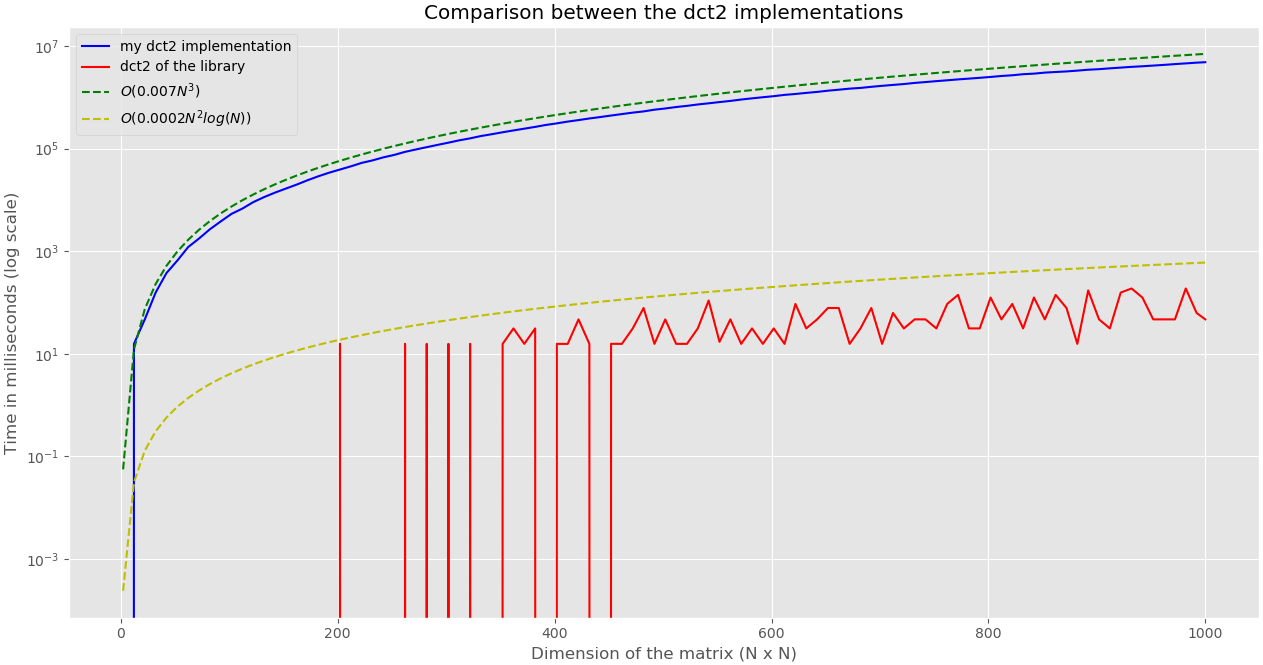
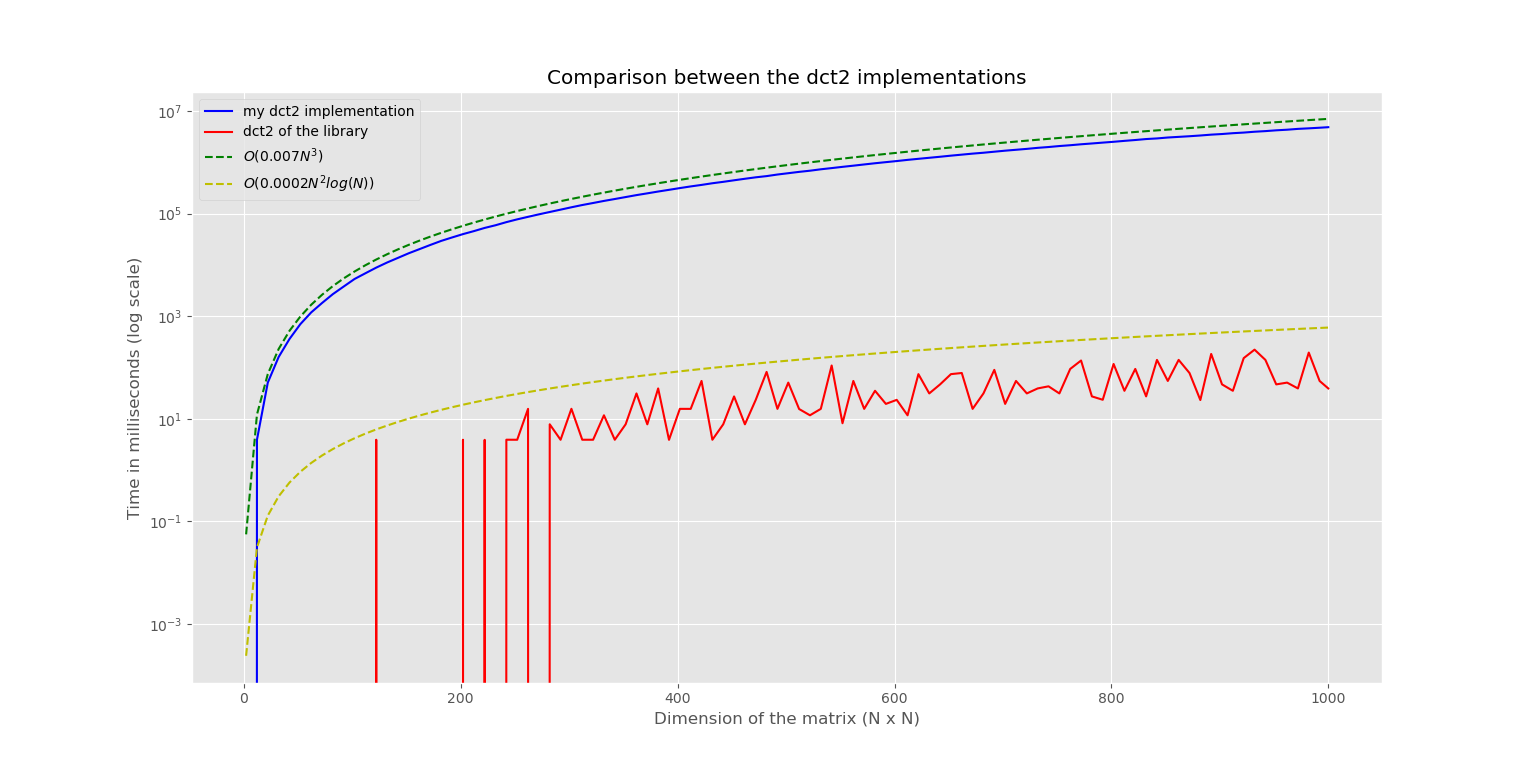
final

Changed region(s): [[0.0, 0.0, 1.0, 0.9925], [0.1853, 0.3008, 0.3088, 0.4511], [0.2162, 0.5714, 0.247, 0.6015]]

diff --git a/progetto2/src/results.py b/progetto2/src/results.py
@@ -54,18 +54,8 @@ def save_results_on_file(my_dct2_time, lib_dct2_time, dimension_matrix, step):
 
 
 # This function is used to plot the results of the comparison of the dct2 implementations
-#def plot_results(my_dct2_time, lib_dct2_time, dimension_matrix, step):
-def plot_results():
+def plot_results(my_dct2_time, lib_dct2_time, dimension_matrix):
     plt.style.use('ggplot') # To improve visualization
-    
-    # Matrix dimensions: 
-    dimension_matrix = [2, 12, 22, 32, 42, 52, 62, 72, 82, 92, 102, 112, 122, 132, 142, 152, 162, 172, 182, 192, 202, 212, 222, 232, 242, 252, 262, 272, 282, 292, 302, 312, 322, 332, 342, 352, 362, 372, 382, 392, 402, 412, 422, 432, 442, 452, 462, 472, 482, 492, 502, 512, 522, 532, 542, 552, 562, 572, 582, 592, 602, 612, 622, 632, 642, 652, 662, 672, 682, 692, 702, 712, 722, 732, 742, 752, 762, 772, 782, 792, 802, 812, 822, 832, 842, 852, 862, 872, 882, 892, 902, 912, 922, 932, 942, 952, 962, 972, 982, 992, 1000]
-
-    # Execution time of my dct2 implementation: 
-    my_dct2_time = [0.0, 0.01562666893005371, 0.046894073486328125, 0.15622639656066895, 0.3750011920928955, 0.6562530994415283, 1.2031264305114746, 1.765625238418579, 2.6718642711639404, 3.7969415187835693, 5.34368371963501, 6.765626668930054, 9.031248569488525, 11.328124046325684, 13.828142642974854, 16.578184127807617, 19.812426567077637, 24.09374761581421, 28.81252360343933, 33.859352350234985, 39.031248331069946, 44.98440432548523, 52.578096866607666, 58.75003218650818, 67.40621447563171, 75.15625286102295, 86.24999809265137, 96.01562190055847, 106.43749904632568, 117.92188501358032, 130.28124713897705, 144.71875166893005, 158.06249451637268, 175.42187094688416, 190.37499952316284, 207.6718876361847, 225.57820987701416, 244.17180824279785, 264.42187309265137, 288.6406247615814, 309.82812666893005, 335.562527179718, 358.64062237739563, 385.87499737739563, 411.06257152557373, 440.3906035423279, 469.9687490463257, 501.5937592983246, 529.7968661785126, 572.3125076293945, 604.203117609024, 644.9062492847443, 679.0937404632568, 723.42187666893, 761.9531035423279, 805.4062156677246, 847.9843678474426, 902.5156183242798, 951.9687464237213, 1001.0312626361847, 1049.2187299728394, 1112.3281450271606, 1157.6249661445618, 1216.4999964237213, 1271.0625097751617, 1342.3281326293945, 1402.9843788146973, 1471.4999964237213, 1519.4687485694885, 1597.187509059906, 1670.2968595027924, 1738.6718645095825, 1808.1406843662262, 1902.0781252384186, 1977.421864271164, 2060.8593735694885, 2140.5156247615814, 2227.109370946884, 2305.937493801117, 2392.218756198883, 2486.5000145435333, 2597.2812037467957, 2680.999983549118, 2813.2499799728394, 2885.6406588554382, 3020.21874499321, 3105.8749389648438, 3186.1093435287476, 3301.453110218048, 3439.578133583069, 3524.18749499321, 3660.453122138977, 3782.5781202316284, 3913.0468723773956, 4014.0156247615814, 4143.093723058701, 4274.578169107437, 4426.171894311905, 4568.937476873398, 4722.609375715256, 4817.531243801117]
-
-    # Execution time of the dct2 of the library: 
-    lib_dct2_time = [0.0, 0.0, 0.0, 0.0, 0.0, 0.0, 0.0, 0.0, 0.0, 0.0, 0.0, 0.0, 0.0, 0.0, 0.0, 0.0, 0.0, 0.0, 0.0, 0.0, 0.015627622604370117, 0.0, 0.0, 0.0, 0.0, 0.0, 0.01562786102294922, 0.0, 0.015627384185791016, 0.0, 0.015629053115844727, 0.0, 0.015629291534423828, 0.0, 0.0, 0.015614509582519531, 0.03123617172241211, 0.015623807907104492, 0.03124833106994629, 0.0, 0.015626192092895508, 0.015598297119140625, 0.04686594009399414, 0.015627145767211914, 0.0, 0.015666723251342773, 0.015625476837158203, 0.031249284744262695, 0.0781407356262207, 0.015616178512573242, 0.046868085861206055, 0.01563549041748047, 0.015634536743164062, 0.03128933906555176, 0.10938405990600586, 0.017143726348876953, 0.04687333106994629, 0.015626192092895508, 0.03125333786010742, 0.015619993209838867, 0.031260013580322266, 0.01560521125793457, 0.09372806549072266, 0.03125286102294922, 0.04687213897705078, 0.07812786102294922, 0.07810211181640625, 0.01562976837158203, 0.03125190734863281, 0.0781404972076416, 0.015620946884155273, 0.06250429153442383, 0.031189918518066406, 0.04694986343383789, 0.046889305114746094, 0.031235694885253906, 0.09375524520874023, 0.14063191413879395, 0.03126096725463867, 0.031226634979248047, 0.12498593330383301, 0.046875, 0.09374594688415527, 0.031250953674316406, 0.12498259544372559, 0.04687070846557617, 0.1406714916229248, 0.07812833786010742, 0.015630245208740234, 0.17184185981750488, 0.046877384185791016, 0.03125309944152832, 0.15626168251037598, 0.1874988079071045, 0.12502717971801758, 0.04687976837158203, 0.04690814018249512, 0.046864986419677734, 0.18749427795410156, 0.06250143051147461, 0.046875]
 
     # build first line
     line_my_dct2, = plt.semilogy(dimension_matrix, np.array(my_dct2_time) * 1000)
@@ -93,15 +83,19 @@ def plot_results():
     plt.xlabel("Dimension of the matrix (N x N)")
     plt.ylabel("Time in milliseconds (log scale)")
 
-    #dir = "../results/"
-    #file_name = "%s/output_%d_step_%d.png" % (dir, dimension_matrix[len(dimension_matrix) - 1], step)
-    #if not os.path.isdir(dir):
-    #    os.makedirs(dir)
-
-    # plt.savefig("%s/%s" % (dir, file_name))
-
     # show graph
     plt.show()
 
+
+# create graph for latex report, using the results obtained during the experiments in merge.txt
 if __name__ == "__main__":
-    plot_results()
+    # Execution time of my dct2 implementation:
+    my_dct2_time =[0.0, 0.003906667232513428, 0.05078238248825073, 0.16015875339508057, 0.35938429832458496, 0.6992014050483704, 1.1835964918136597, 1.8046844005584717, 2.691409170627594, 3.7851849794387817, 5.308560907840729, 6.859406888484955, 8.83981454372406, 11.113282322883606, 13.6796994805336, 16.843761682510376, 20.30467391014099, 24.50389665365219, 29.360527336597443, 34.249985098838806, 39.76565498113632, 45.44139289855957, 52.484388530254364, 59.17186766862869, 68.07422751188278, 77.10545563697815, 86.35938000679016, 96.50781393051147, 107.31640696525574, 119.20312488079071, 132.55469810962677, 146.6444833278656, 160.6406215429306, 176.32422822713852, 192.07422649860382, 209.65625476837158, 228.82035714387894, 247.73437547683716, 268.7968646287918, 290.0390751361847, 313.6289295554161, 337.9453099370003, 361.71872103214264, 389.7070255279541, 415.222674369812, 445.16021060943604, 476.46093487739563, 508.5664133429527, 536.8398405313492, 576.36717659235, 611.6211140751839, 649.3556051850319, 684.1835824847221, 728.9687618613243, 769.2499945759773, 813.4882615208626, 857.4140560030937, 905.8750101923943, 956.1054619550705, 1004.7304738759995, 1054.918001115322, 1112.4296970963478, 1166.332036614418, 1221.81641715765, 1279.656237900257, 1344.3398386836052, 1406.7578074336052, 1472.765644133091, 1532.2812349796295, 1605.3124788999557, 1680.5195139050484, 1749.5468907952309, 1821.87112480402, 1908.730426311493, 1979.8398633003235, 2069.523439884186, 2146.0703331828117, 2239.2890731096268, 2322.3085728883743, 2413.4414082169533, 2504.4089788794518, 2610.5625208616257, 2712.5664093494415, 2832.58202034235, 2911.4648614525795, 3034.289059340954, 3122.4921830892563, 3213.9765552282333, 3321.8517837524414, 3451.097661972046, 3548.6484424471855, 3683.8554700016975, 3786.5055248737335, 3932.3749759197235, 4043.7929695248604, 4191.605475902557, 4306.3711242079735, 4469.808591246605, 4580.562494277954, 4707.574238598347, 4822.226565659046]
+
+    # Execution time of the dct2 of the library:
+    lib_dct2_time = [0.0, 0.0, 0.0, 0.0, 0.0, 0.0, 0.0, 0.0, 0.0, 0.0, 0.0, 0.0, 0.00390547513961792, 0.0, 0.0, 0.0, 0.0, 0.0, 0.0, 0.0, 0.003906905651092529, 0.0, 0.003891289234161377, 0.0, 0.003913283348083496, 0.003904998302459717, 0.015619158744812012, 0.0, 0.007814288139343262, 0.003902256488800049, 0.01566755771636963, 0.003909945487976074, 0.003907322883605957, 0.011704206466674805, 0.0039047598838806152, 0.007810473442077637, 0.031217992305755615, 0.00780719518661499, 0.03906446695327759, 0.003891468048095703, 0.015627384185791016, 0.015615880489349365, 0.05469167232513428, 0.0039067864418029785, 0.007812082767486572, 0.027295708656311035, 0.007813513278961182, 0.02344071865081787, 0.08204472064971924, 0.01562190055847168, 0.05075424909591675, 0.01550447940826416, 0.011713624000549316, 0.01562631130218506, 0.10938405990600586, 0.008198022842407227, 0.0546838641166687, 0.015614688396453857, 0.03515934944152832, 0.019531607627868652, 0.023408055305480957, 0.011708319187164307, 0.07420670986175537, 0.03124159574508667, 0.046877264976501465, 0.07424426078796387, 0.07812970876693726, 0.015619993209838867, 0.03126823902130127, 0.08987140655517578, 0.01952749490737915, 0.054670751094818115, 0.031246960163116455, 0.03908652067184448, 0.04296606779098511, 0.031237125396728516, 0.09371757507324219, 0.13673657178878784, 0.027339696884155273, 0.02350383996963501, 0.11709445714950562, 0.035147011280059814, 0.09375077486038208, 0.027354776859283447, 0.14060401916503906, 0.054686129093170166, 0.14062738418579102, 0.07812613248825073, 0.02321624755859375, 0.18358337879180908, 0.04688447713851929, 0.03515934944152832, 0.15236783027648926, 0.22266173362731934, 0.14061641693115234, 0.04686605930328369, 0.05076819658279419, 0.03906846046447754, 0.1953144669532776, 0.0546649694442749, 0.03906506299972534]
+
+    # Matrix dimensions:
+    dimension_matrix = [2, 12, 22, 32, 42, 52, 62, 72, 82, 92, 102, 112, 122, 132, 142, 152, 162, 172, 182, 192, 202, 212, 222, 232, 242, 252, 262, 272, 282, 292, 302, 312, 322, 332, 342, 352, 362, 372, 382, 392, 402, 412, 422, 432, 442, 452, 462, 472, 482, 492, 502, 512, 522, 532, 542, 552, 562, 572, 582, 592, 602, 612, 622, 632, 642, 652, 662, 672, 682, 692, 702, 712, 722, 732, 742, 752, 762, 772, 782, 792, 802, 812, 822, 832, 842, 852, 862, 872, 882, 892, 902, 912, 922, 932, 942, 952, 962, 972, 982, 992, 1000]
+
+    plot_results(my_dct2_time, lib_dct2_time, dimension_matrix)

diff --git a/progetto2/src/merge_results.py b/progetto2/src/merge_results.py
@@ -1,6 +1,8 @@
 import numpy as np
 import matplotlib.pyplot as plt
 
+# Function used to merge the results of the 4 experiments and write them in merge.txt. These results are used to generate
+# the graph for the latex exam report
 def main():
     dim = [2, 12, 22, 32, 42, 52, 62, 72, 82, 92, 102, 112, 122, 132, 142, 152, 162, 172, 182, 192, 202, 212, 222, 232, 242, 252, 262, 272, 282, 292, 302, 312, 322, 332, 342, 352, 362, 372, 382, 392, 402, 412, 422, 432, 442, 452, 462, 472, 482, 492, 502, 512, 522, 532, 542, 552, 562, 572, 582, 592, 602, 612, 622, 632, 642, 652, 662, 672, 682, 692, 702, 712, 722, 732, 742, 752, 762, 772, 782, 792, 802, 812, 822, 832, 842, 852, 862, 872, 882, 892, 902, 912, 922, 932, 942, 952, 962, 972, 982, 992, 1000]
     my_time1 = np.array([0.0, 0.01562666893005371, 0.046894073486328125, 0.15622639656066895, 0.3750011920928955, 0.6562530994415283, 1.2031264305114746, 1.765625238418579, 2.6718642711639404, 3.7969415187835693, 5.34368371963501, 6.765626668930054, 9.031248569488525, 11.328124046325684, 13.828142642974854, 16.578184127807617, 19.812426567077637, 24.09374761581421, 28.81252360343933, 33.859352350234985, 39.031248331069946, 44.98440432548523, 52.578096866607666, 58.75003218650818, 67.40621447563171, 75.15625286102295, 86.24999809265137, 96.01562190055847, 106.43749904632568, 117.92188501358032, 130.28124713897705, 144.71875166893005, 158.06249451637268, 175.42187094688416, 190.37499952316284, 207.6718876361847, 225.57820987701416, 244.17180824279785, 264.42187309265137, 288.6406247615814, 309.82812666893005, 335.562527179718, 358.64062237739563, 385.87499737739563, 411.06257152557373, 440.3906035423279, 469.9687490463257, 501.5937592983246, 529.7968661785126, 572.3125076293945, 604.203117609024, 644.9062492847443, 679.0937404632568, 723.42187666893, 761.9531035423279, 805.4062156677246, 847.9843678474426, 902.5156183242798, 951.9687464237213, 1001.0312626361847, 1049.2187299728394, 1112.3281450271606, 1157.6249661445618, 1216.4999964237213, 1271.0625097751617, 1342.3281326293945, 1402.9843788146973, 1471.4999964237213, 1519.4687485694885, 1597.187509059906, 1670.2968595027924, 1738.6718645095825, 1808.1406843662262, 1902.0781252384186, 1977.421864271164, 2060.8593735694885, 2140.5156247615814, 2227.109370946884, 2305.937493801117, 2392.218756198883, 2486.5000145435333, 2597.2812037467957, 2680.999983549118, 2813.2499799728394, 2885.6406588554382, 3020.21874499321, 3105.8749389648438, 3186.1093435287476, 3301.453110218048, 3439.578133583069, 3524.18749499321, 3660.453122138977, 3782.5781202316284, 3913.0468723773956, 4014.0156247615814, 4143.093723058701, 4274.578169107437, 4426.171894311905, 4568.937476873398, 4722.609375715256, 4817.531243801117])
@@ -15,22 +17,11 @@ def main():
     my_time_merge = (my_time1 + my_time2 + my_time3 + my_time4) / 4
     lib_time_merge = (lib_time1 + lib_time2 + lib_time3 + lib_time4) / 4
 
-    #cubic_time = 0.000006 * np.array(dim) ** 3
-    #nlogn_time = 0.000006 * np.array(dim) * np.log10(np.array(dim))
-
-    plt.style.use("ggplot")
-    plt.title("Results of the comparison (semi-logarithmic plot)")
-    plt.semilogy(dim, my_time_merge, label="my DCT2")
-    plt.semilogy(dim, lib_time_merge, label="DCT2 of the SciPy library")
-    #plt.semilogy(dim, cubic_time, label="cubic time")
-    #plt.semilogy(dim, nlogn_time, label="n*log(n) time")
-    plt.legend()
-    plt.xlabel("Dimension of the matrix (NxN)")
-    plt.ylabel("Time in seconds (log scale)")
-    plt.show()
-
-
-
+    f = open("../results/merge.txt", "w")
+    f.write(str(list(my_time_merge)) + "\n")
+    f.write(str(list(lib_time_merge)) + "\n")
+    f.write(str(dim) + "\n")
+    f.close()
 
 if __name__ == '__main__':
     main()

diff --git a/progetto2/src/comparator.py b/progetto2/src/comparator.py
@@ -56,7 +56,7 @@ def main(argv):
     max_dim = int(argv[1])
     step = int(argv[2])
     my_time, lib_time, dim_matrix = compare(max_dim, step)
-    plot_results(my_time, lib_time, dim_matrix, step)
+    plot_results(my_time, lib_time, dim_matrix)
     save_results_on_file(my_time, lib_time, dim_matrix, step)
 
 
